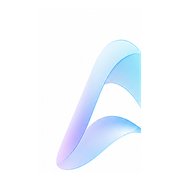
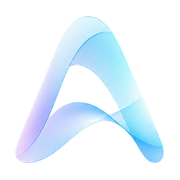
Fix admin orchestration dashboard, brand assets, and post-run deploy.
Serialize datetime/UUID in orchestration admin JSON to stop project dashboard 500s; queue deployment when background orchestration runs complete without chat SSE; regenerate favicons from the full logo symbol; fix eslint/ruff nits.

diff --git a/frontend/src/app/app/support-chat/page.tsx b/frontend/src/app/app/support-chat/page.tsx
@@ -23,7 +23,7 @@ export default function SupportStaffChatPage() {
   const bridgeToken = searchParams.get("bridge_token");
   const customerUserId = searchParams.get("customer_user_id");
 
-  const [ready, setReady] = useState(false);
+  const [ready, setReady] = useState(!bridgeToken);
   const [inbox, setInbox] = useState<StaffConversationSummaryType[]>([]);
   const [activeId, setActiveId] = useState<string | null>(null);
   const [thread, setThread] = useState<SupportConversationType | null>(null);
@@ -35,10 +35,10 @@ export default function SupportStaffChatPage() {
   const bottomRef = useRef<HTMLDivElement>(null);
 
   useEffect(() => {
-    if (bridgeToken) {
-      setAccessToken(bridgeToken);
-    }
-    setReady(true);
+    if (!bridgeToken) return;
+    setAccessToken(bridgeToken);
+    const timer = window.setTimeout(() => setReady(true), 0);
+    return () => window.clearTimeout(timer);
   }, [bridgeToken]);
 
   const loadInbox = useCallback(async () => {
@@ -66,9 +66,12 @@ export default function SupportStaffChatPage() {
 
   useEffect(() => {
     if (!ready) return;
-    void loadInbox();
+    const kickoff = window.setTimeout(() => void loadInbox(), 0);
     const timer = window.setInterval(loadInbox, POLL_MS);
-    return () => window.clearInterval(timer);
+    return () => {
+      window.clearTimeout(kickoff);
+      window.clearInterval(timer);
+    };
   }, [ready, loadInbox]);
 
   useEffect(() => {
@@ -82,9 +85,12 @@ export default function SupportStaffChatPage() {
 
   useEffect(() => {
     if (!activeId) return;
-    void loadThread(activeId);
+    const kickoff = window.setTimeout(() => void loadThread(activeId), 0);
     const timer = window.setInterval(() => loadThread(activeId), POLL_MS);
-    return () => window.clearInterval(timer);
+    return () => {
+      window.clearTimeout(kickoff);
+      window.clearInterval(timer);
+    };
   }, [activeId, loadThread]);
 
   useEffect(() => {

diff --git a/frontend/src/components/support/support-user-chat.tsx b/frontend/src/components/support/support-user-chat.tsx
@@ -63,16 +63,22 @@ export function SupportUserChat({ hidden }: { hidden?: boolean }) {
 
   useEffect(() => {
     if (hidden) return;
-    void refreshUnread();
+    const kickoff = window.setTimeout(() => void refreshUnread(), 0);
     const timer = window.setInterval(refreshUnread, POLL_CLOSED_MS);
-    return () => window.clearInterval(timer);
+    return () => {
+      window.clearTimeout(kickoff);
+      window.clearInterval(timer);
+    };
   }, [hidden, refreshUnread]);
 
   useEffect(() => {
     if (!open) return;
-    void loadConversation({ initial: true });
+    const kickoff = window.setTimeout(() => void loadConversation({ initial: true }), 0);
     const timer = window.setInterval(() => loadConversation(), POLL_OPEN_MS);
-    return () => window.clearInterval(timer);
+    return () => {
+      window.clearTimeout(kickoff);
+      window.clearInterval(timer);
+    };
   }, [open, loadConversation]);
 
   useEffect(() => {

diff --git a/frontend/src/components/brand/logo.tsx b/frontend/src/components/brand/logo.tsx
@@ -33,7 +33,7 @@ function AirMark({ size, className }: { size: number; className?: string }) {
 
   return (
     <svg
-      viewBox="0 0 512 512"
+      viewBox="55 45 402 402"
       width={size}
       height={size}
       role="img"

diff --git a/frontend/scripts/install_brand_assets.py b/frontend/scripts/install_brand_assets.py
@@ -1,4 +1,4 @@
-"""Install AIRuntime brand assets from provided PNG sources."""
+"""Install AIRuntime brand assets from the master logo PNG."""
 from __future__ import annotations
 
 from pathlib import Path
@@ -8,11 +8,14 @@ from PIL import Image
 ROOT = Path(__file__).resolve().parents[1]
 PUBLIC = ROOT / "public"
 BRAND = PUBLIC / "brand"
+BACKEND_BRAND = ROOT.parent / "backend" / "src" / "assets" / "brand"
 SOURCE = ROOT / "brand-source"
-
-SRC_SYMBOL = SOURCE / "symbol.png"
-SRC_WORDMARK = SOURCE / "wordmark.png"
 SRC_FULL = SOURCE / "logo-full.png"
+
+# Fraction of image height that contains only the symbol (above the wordmark).
+SYMBOL_HEIGHT_RATIO = 0.605
+# Padding around trimmed content as a fraction of the longer side.
+PADDING_RATIO = 0.10
 
 
 def remove_near_white_background(image: Image.Image, threshold: int = 246) -> Image.Image:
@@ -27,17 +30,65 @@ def remove_near_white_background(image: Image.Image, threshold: int = 246) -> Im
     return rgba
 
 
-def trim_transparent(image: Image.Image, padding: int = 24) -> Image.Image:
+def content_bbox(image: Image.Image, *, alpha_threshold: int = 8) -> tuple[int, int, int, int] | None:
     rgba = image.convert("RGBA")
-    bbox = rgba.getbbox()
+    width, height = rgba.size
+    pixels = rgba.load()
+    min_x, min_y = width, height
+    max_x, max_y = 0, 0
+    found = False
+    for y in range(height):
+        for x in range(width):
+            if pixels[x, y][3] >= alpha_threshold:
+                found = True
+                min_x = min(min_x, x)
+                min_y = min(min_y, y)
+                max_x = max(max_x, x)
+                max_y = max(max_y, y)
+    if not found:
+        return None
+    return min_x, min_y, max_x + 1, max_y + 1
+
+
+def trim_to_square(image: Image.Image, padding_ratio: float = PADDING_RATIO) -> Image.Image:
+    rgba = image.convert("RGBA")
+    bbox = content_bbox(rgba)
     if not bbox:
         return rgba
     cropped = rgba.crop(bbox)
     w, h = cropped.size
-    side = max(w, h) + padding * 2
+    pad = int(max(w, h) * padding_ratio)
+    side = max(w, h) + pad * 2
     canvas = Image.new("RGBA", (side, side), (0, 0, 0, 0))
     offset = ((side - w) // 2, (side - h) // 2)
     canvas.paste(cropped, offset, cropped)
+    return canvas
+
+
+def extract_symbol(full: Image.Image) -> Image.Image:
+    w, h = full.size
+    split_y = int(h * SYMBOL_HEIGHT_RATIO)
+    symbol_region = full.crop((0, 0, w, split_y))
+    return trim_to_square(symbol_region)
+
+
+def extract_wordmark(full: Image.Image) -> Image.Image:
+    w, h = full.size
+    split_y = int(h * SYMBOL_HEIGHT_RATIO)
+    word_region = full.crop((0, split_y, w, h))
+    rgba = word_region.convert("RGBA")
+    bbox = content_bbox(rgba)
+    if not bbox:
+        return rgba
+    cropped = rgba.crop(bbox)
+    pad_x = int(cropped.width * 0.04)
+    pad_y = int(cropped.height * 0.12)
+    canvas = Image.new(
+        "RGBA",
+        (cropped.width + pad_x * 2, cropped.height + pad_y * 2),
+        (0, 0, 0, 0),
+    )
+    canvas.paste(cropped, (pad_x, pad_y), cropped)
     return canvas
 
 
@@ -56,12 +107,14 @@ def save_ico(image: Image.Image, path: Path) -> None:
 
 
 def main() -> None:
-    symbol = Image.open(SRC_SYMBOL)
-    wordmark = Image.open(SRC_WORDMARK)
-    full = remove_near_white_background(Image.open(SRC_FULL))
+    if not SRC_FULL.is_file():
+        raise SystemExit(f"Missing source logo: {SRC_FULL}")
 
-    mark = trim_transparent(symbol, padding=28)
-    save_png(mark, BRAND / "logo-mark.png", (512, 512))
+    full = remove_near_white_background(Image.open(SRC_FULL))
+    symbol = extract_symbol(full)
+    wordmark = extract_wordmark(full)
+
+    save_png(symbol, BRAND / "logo-mark.png", (512, 512))
     save_png(wordmark, BRAND / "logo-wordmark.png")
     save_png(full, BRAND / "logo-full.png", (1024, 1024))
 
@@ -70,6 +123,9 @@ def main() -> None:
     save_png(mark_512, PUBLIC / "apple-touch-icon.png", (180, 180))
     save_png(mark_512, PUBLIC / "icon-192.png", (192, 192))
     save_png(mark_512, PUBLIC / "icon-512.png", (512, 512))
+
+    BACKEND_BRAND.mkdir(parents=True, exist_ok=True)
+    save_png(mark_512, BACKEND_BRAND / "logo-mark.png", (512, 512))
 
     print("Installed brand assets:")
     for path in [
@@ -80,8 +136,9 @@ def main() -> None:
         PUBLIC / "apple-touch-icon.png",
         PUBLIC / "icon-192.png",
         PUBLIC / "icon-512.png",
+        BACKEND_BRAND / "logo-mark.png",
     ]:
-        print(" ", path.relative_to(ROOT))
+        print(" ", path.relative_to(ROOT.parent))
 
 
 if __name__ == "__main__":

diff --git a/backend/src/services/orchestration/project_finalize.py b/backend/src/services/orchestration/project_finalize.py
@@ -1,0 +1,88 @@
+"""Post-run project finalization for background orchestration (no chat SSE)."""
+
+from __future__ import annotations
+
+import logging
+from pathlib import Path
+
+from sqlalchemy.orm import Session
+
+from src.db.models.orchestration import OrchestrationRun
+from src.db.models.project import Project
+from src.services.agentic_artifacts import ensure_dockerfile, workspace_has_agent_code
+from src.services.artifacts import _telegram_token
+from src.services.deployments import create_deployment_for_project
+from src.services.project_intent import reconcile_type_with_workspace
+from src.services.project_runtime import RunningProjectLimitError
+from src.services.secrets import ensure_secret_placeholder
+from src.services.workspace import project_dir
+
+logger = logging.getLogger(__name__)
+
+
+def _is_deployable(project: Project, artifact_path: Path) -> bool:
+    return (artifact_path / "Dockerfile").exists() or workspace_has_agent_code(
+        artifact_path, project
+    )
+
+
+def finalize_project_after_completed_run(
+    db: Session, *, run: OrchestrationRun, project: Project
+) -> None:
+    """Mirror chat.py's run_completed branch when the engine finishes outside chat SSE."""
+    if run.status != "completed":
+        return
+
+    artifact_path = project_dir(project.id)
+    if not _is_deployable(project, artifact_path):
+        logger.info(
+            "orchestration finalize: project %s has no deployable artifacts yet", project.id
+        )
+        if project.status == "created":
+            project.status = "ready"
+            db.add(project)
+        return
+
+    try:
+        ensure_dockerfile(project, artifact_path)
+    except Exception:  # noqa: BLE001 - deploy queue should still be attempted
+        logger.warning("ensure_dockerfile failed for project %s", project.id, exc_info=True)
+
+    if reconcile_type_with_workspace(
+        project, artifact_path, has_bot_secret=bool(_telegram_token(db, project))
+    ):
+        db.add(project)
+
+    has_website = project.type in ("website", "mixed")
+    has_bot = project.type in ("telegram_bot", "mixed")
+
+    if has_bot and not _telegram_token(db, project):
+        ensure_secret_placeholder(
+            db, project, "TELEGRAM_BOT_TOKEN", "Нужен для запуска Telegram-бота"
+        )
+        project.status = "needs_configuration"
+        db.add(project)
+        return
+
+    project.status = "ready"
+    db.add(project)
+    db.flush()
+
+    if not (has_website or has_bot):
+        return
+
+    try:
+        create_deployment_for_project(db, project)
+    except RunningProjectLimitError as exc:
+        project.status = "ready"
+        note = (
+            f"{exc}\n"
+            "Файлы проекта сохранены. Остановите один из запущенных проектов "
+            "и запустите этот вручную на странице «Деплои»."
+        )
+        project.logs = f"{project.logs}\n{note}".strip() if project.logs else note
+        db.add(project)
+    except Exception:  # noqa: BLE001 - run is already completed; don't fail the engine
+        logger.exception(
+            "orchestration finalize: failed to queue deploy for project %s", project.id
+        )

diff --git a/backend/src/services/orchestration/engine.py b/backend/src/services/orchestration/engine.py
@@ -98,6 +98,7 @@ from src.services.orchestration.failure_policy import (
 from src.services.orchestration.git_transaction import GitTransactionManager
 from src.services.orchestration.mcp import registry as mcp_registry
 from src.services.orchestration.planner import ExecutionPlan, generate_plan
+from src.services.orchestration.project_finalize import finalize_project_after_completed_run
 from src.services.orchestration.replanner import (
     ReplanGate,
     generate_replan,
@@ -1407,6 +1408,7 @@ async def _run_orchestration_inner(
                     )
                 else:
                     _walk_run_to_completed(db, run)
+                    finalize_project_after_completed_run(db, run=run, project=project)
                 db.commit()
                 return
 

diff --git a/admin/orchestration_section/reporting.py b/admin/orchestration_section/reporting.py
@@ -7,7 +7,7 @@ to a single project where noted. No secret values or free-text model output in a
 from __future__ import annotations
 
 import json
-from datetime import timedelta
+from datetime import date, datetime, timedelta
 from decimal import Decimal
 from uuid import UUID
 
@@ -271,4 +271,8 @@ def project_metrics(project_id: UUID | str, window_hours: int = 24) -> dict:
 def decimal_default(value):
     if isinstance(value, Decimal):
         return float(value)
+    if isinstance(value, datetime | date):
+        return value.isoformat()
+    if isinstance(value, UUID):
+        return str(value)
     raise TypeError(f"Not JSON serializable: {type(value)}")

diff --git a/frontend/scripts/trace_logo.py b/frontend/scripts/trace_logo.py
@@ -7,12 +7,9 @@ from pathlib import Path
 import cv2
 import numpy as np
 
-SRC = Path(
-    r"C:\Users\miald\.cursor\projects\c-Users-miald-storage-Programming-startups-airuntime-ru\assets"
-    r"\c__Users_miald_AppData_Roaming_Cursor_User_workspaceStorage_3d89f7fdc9cd68bde00106103b6ac94c_images"
-    r"_ChatGPT_Image_Jul_7__2026__02_07_34_PM-bd59132a-b6dd-4278-a325-5a2b394ff098.png"
-)
-OUT_DIR = Path(__file__).resolve().parents[1] / "public" / "brand"
+ROOT = Path(__file__).resolve().parents[1]
+SRC = ROOT / "brand-source" / "logo-full.png"
+OUT_DIR = ROOT / "public" / "brand"
 
 
 def rgb_to_hex(rgb: tuple[int, int, int]) -> str:

diff --git a/frontend/scripts/gen_wordmark.py b/frontend/scripts/gen_wordmark.py
@@ -44,7 +44,6 @@ def letter_paths(font: TTFont) -> list[tuple[str, str, float]]:
 def main() -> None:
     font = TTFont(str(FONT_PATH))
     paths = letter_paths(font)
-    total_width = 0.0
     lines: list[str] = []
     for ch, d, x in paths:
         lines.append(f"<!-- {ch} x={x:.2f} -->")

diff --git a/backend/src/api/routers/auth.py b/backend/src/api/routers/auth.py
@@ -1,6 +1,6 @@
-from datetime import UTC, datetime, timedelta
 import asyncio
 import logging
+from datetime import UTC, datetime, timedelta
 
 from fastapi import APIRouter, Depends, HTTPException, status
 from jose import JWTError, jwt
